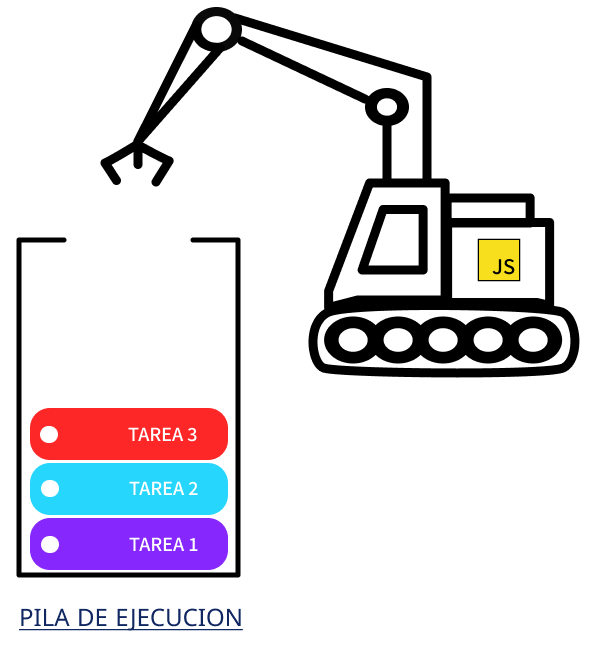
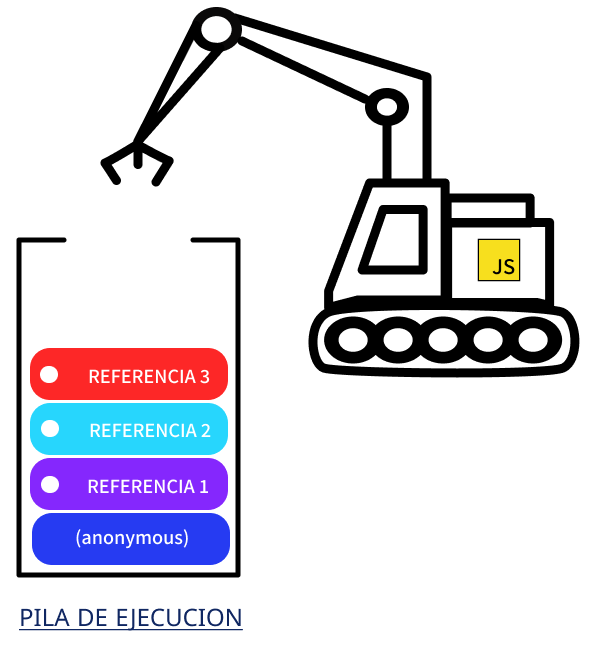
Add more information of Call Stack

Changed region(s): [[0.0311, 0.5231, 0.3738, 0.8923]]

diff --git a/javascript.html b/javascript.html
@@ -143,8 +143,12 @@
                 <div id="cinco">
                     <main class="content">
                         <h3>Pila de ejecucion (Call Stack)</h3>
-                        <p>¿Que es la pila de ejecucion o Call Stack? Este es uno de los temas importantes y fundamentales que debemos de aprender para dominar Javascript. La pila de ejecución, o call stack, es una metodología que utilizan los motores de JavaScript a la hora de ejecutar nuestro código. Podemos comparar a la pila de ejecucion a una lista de tareas de tareas pendientes que tienen los motores de Javascript, que les sirve para saber que tareas tienen por ejecutar, mantener el orden de ejecucion, saber cual es la proxima tarea por realizar y tambien asegurarse de cumplir con todas las tareas por realizar. Vamos a hablar mucho de la pila de ejecucion, pero, ¿que caracteristicas tienen estas? Podemos decir que la pila de ejecucion es un lugar en donde se alojan las funciones por ejecutarse. Estructuralemnte hablando, podemos imaginarnos a la pila de ejecucion a un contenedor con un orificio en la parte superior. Como es el unico orificio por la parte de arriba, si el motor agrega una funcion a ejecutar, esta permanecera alli hasta ejecutarse. Es por eso que podemos afirmar que la Pila de Ejecucion opera de formal lineal y unidireccional. Tambien debemos de tener en cuenta que el motor de Javascript, al recibir una tarea, le da tanta importancia, que la necesita ejecutar lo antes posible. Es por eso que si hablamos de Pila de Ejecucion, tambien hablamos de LIFO. El LIFO, (por sus siglas en ingles Last In, First Out) es una metodología que significa que la ultima funcion en entrar, es la primera en salir. Y esto tiene mucha logica, por que digimos que estructuralmente, la Pila de Ejecucion es unidireccional y lineal. Pongamos un ejemplo: Imaginemos que tenemos una pila alta con platos. Si nosotros queremos sacar un plato del principio o del medio, lo mas seguro es quitar los ultimos platos hasta acceder al que necesitamos. De lo contrario, si quisiera sacar el plato que desee, sin sacar los anteriores, podria ocurrir un desastre. Podrian caerse todos los platos, y romperse. Veamos la siguiente imagen ilustrativa, para comprender como funciona la Pila de Ejecucion.</p>
+                        <p>¿Que es la pila de ejecucion o Call Stack? Este es uno de los temas importantes y fundamentales que debemos de aprender para dominar Javascript. La pila de ejecución, o call stack, es una metodología que utilizan los motores de JavaScript a la hora de ejecutar nuestro código. Podemos comparar a la pila de ejecucion a una lista de tareas pendientes que tienen los motores de Javascript, que les sirve para saber que tareas tienen por ejecutar, mantener el orden de ejecucion, saber cual es la proxima tarea por realizar y tambien asegurarse de cumplir con todas las tareas por realizar. </p>
+                        <p>Vamos a hablar mucho de la pila de ejecucion, pero, ¿que caracteristicas tiene esta? Podemos decir que la pila de ejecucion es un lugar en donde se alojan las referencias de funciones por ejecutarse. Estructuralmente hablando, podemos imaginarnos a la pila de ejecucion a un contenedor con un orificio en la parte superior. Como es el unico orificio por la parte de arriba, si el motor agrega una referencia de una funcion a ejecutar, esta permanecera alli hasta ejecutarse. Es por eso que podemos afirmar que la Pila de Ejecucion opera de formal lineal y unidireccional. Tambien debemos de tener en cuenta que el motor de Javascript, al recibir una referencia de una funcion, le da tanta importancia, que la necesita ejecutar lo antes posible. Es por eso que si hablamos de Pila de Ejecucion, tambien hablamos de LIFO. El LIFO, (por sus siglas en ingles Last In, First Out) es una metodología que significa que la ultima funcion en entrar, es la primera en salir. Y esto tiene mucha logica, por que digimos que estructuralmente, la Pila de Ejecucion es unidireccional y lineal. Pongamos un ejemplo: Imaginemos que tenemos una pila alta con platos. Si nosotros queremos sacar un plato del principio o del medio, lo mas seguro es quitar los ultimos platos hasta acceder al que necesitamos. De lo contrario, si quisiera sacar el plato que desee, sin sacar los anteriores, podria ocurrir un desastre. Podrian caerse todos los platos, y romperse. Veamos la siguiente imagen ilustrativa, para comprender como funciona la Pila de Ejecucion.</p>
                         <img src="./imagenes/Javascript/Call Stack.png" alt="Call Stack" loading="lazy">
+                        <p>Como bien podemos ver en la imagen, a la pila de ejecucion llegan referencias de funciones. Las primera que llegaban, se tenian que realizar o ejecutar lo antes posibles, para de esa manera continuar con la ejecucion de todas las demas referencias de funciones. Es por eso que cuando se finalice la ejecucion de la referencia 3, esta se ira de la pila, y el motor de JS continuara con la ejecucion de la referencia 2. Asi sucesivamente hasta dejar la pila de ejecucion vacia. </p>
+                        <img src="./imagenes/Javascript/Call Stack Delete.png" alt="Call Stack Delete" loading="lazy">
+                        <p>De seguro, te estaras preguntando, ¿que el eso de anonymos que aparece por debajo de la pila? Es muy sencillo</p>
                     </main>
                 </div>
             </main>    
